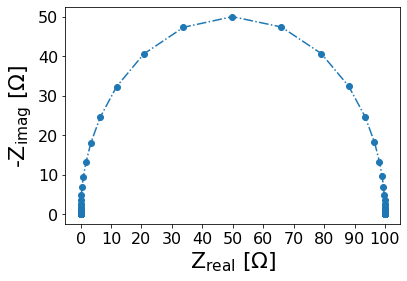
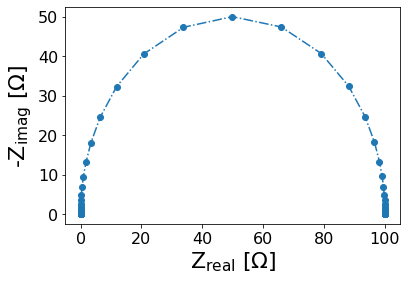
Made additional changes to plotting file and created new exmaples files from the jupyter notebook. will delete these later as they are automatically generated

diff --git a/EISy_as_Py/data/simulation/data_simulation.py b/EISy_as_Py/data/simulation/data_simulation.py
@@ -73,7 +73,7 @@ def impedance_array(complex_impedance):
 
 
 def RC_simulation(high_freq, low_freq, decades, resistance, capacitance,
-                  circuit_configuration, i):
+                  circuit_configuration):
     """
     Function that takes imputs parameters to simulated the impedance response
     of a circuit composed by a resistor and a capacitor in series over the
@@ -92,9 +92,9 @@ def RC_simulation(high_freq, low_freq, decades, resistance, capacitance,
                  Resistance [Ohm]
     capacitance : single value (int or float)
                   Capacitance [F]
-    circuit_configuration :
-
-    i :
+    circuit_configuration : str
+                            string indicating the configuration of the RC
+                            circuit to be simulated
 
     Output
     ----------
@@ -119,7 +119,7 @@ def RC_simulation(high_freq, low_freq, decades, resistance, capacitance,
 
 
 def RC_file_writer(high_freq, low_freq, decades, resistance, capacitance,
-                   circuit_configuration, i, alteration=None, save_image=None,
+                   circuit_configuration, alteration=None, save_image=None,
                    save_location='simulation_data/'):
     """
     Parameters
@@ -133,6 +133,7 @@ def RC_file_writer(high_freq, low_freq, decades, resistance, capacitance,
     date = time.strftime('%y%m%d', time.localtime())
     if not os.path.exists(save_location):
         os.makedirs(save_location)
+    i = 1
     while i < 9999:
         number = str(i).zfill(4)
         if alteration:
@@ -149,17 +150,22 @@ def RC_file_writer(high_freq, low_freq, decades, resistance, capacitance,
         data_file.write('Serial number:, {}'.format(number)+'\n')
         data_file.write('Data Source:, simulation'+'\n')
         data_file.write('Circuit type:, rc'+'\n')
-        data_file.write('Circuit elements:, [R={} ohm C={} F]'.format(R, C) +
-                        '\n')
+        data_file.write('Circuit configuration:, {}'
+                        .format(circuit_configuration)+'\n')
+        data_file.write('Circuit elements:, [R={} ohm C={} F]'
+                        .format(resistance, capacitance) + '\n')
         data_file.write('---'+'\n')
+        freq_range = freq_gen(high_freq, low_freq, decades)
         if circuit_configuration == 'series':
-            df = circuits.cir_RC_series(freq_range[1], resistance,
-                                        capacitance)
+            circuit = circuits.cir_RC_series(freq_range[1], resistance,
+                                             capacitance)
         elif circuit_configuration == 'parallel':
-            df = circuits.cir_RC_parallel(freq_range[1], resistance,
-                                          capacitance)
+            circuit = circuits.cir_RC_parallel(freq_range[1], resistance,
+                                               capacitance)
         else:
             raise AssertionError('The inputted configuration is not supported')
+        df = RC_simulation(high_freq, low_freq, decades, resistance,
+                           capacitance, circuit_configuration, i)
         df.to_csv(data_file, mode='a')
         data_file.close()
     if save_image:
@@ -222,6 +228,7 @@ def sim_randles_file_writer(f_start, f_stop, decades, Rs, R, n, sigma,
         data_file.write('Serial number:, {}'.format(number)+'\n')
         data_file.write('Data Source:, simulation'+'\n')
         data_file.write('Circuit type:, rc'+'\n')
+        data_file.write('Circuit configuration:, N/A' + '\n')
         data_file.write('Circuit elements:, [R={} ohm Rs ={} ohm sigma = {} \
                          ohm Q = {} F]'.format(R, Rs, sigma, Q) +
                         '\n')

diff --git a/EISy_as_Py/data/simulation/plotting.py b/EISy_as_Py/data/simulation/plotting.py
@@ -11,8 +11,8 @@ def nyquist_plot(response, axis_limits=None, filename=None, save_image=None,
     # plt.ticklabel_format(style='sci', scilimits=(0, 0))
     ax.xlabel(r'Z$_{real}$ [$\Omega$]')
     ax.ylabel(r'-Z$_{imag}$ [$\Omega$]')
-    ax.set_xlim([0, 500])
-    ax.set_ylim([0, 200])
+    ax.set_xlim([0, 200])
+    ax.set_ylim([0, 100])
     ax.set_aspect('equal')
     # ax.xticks(np.arange(min(),
     #                     max(response['Re_Z [Ohm]'])+1, 10))
